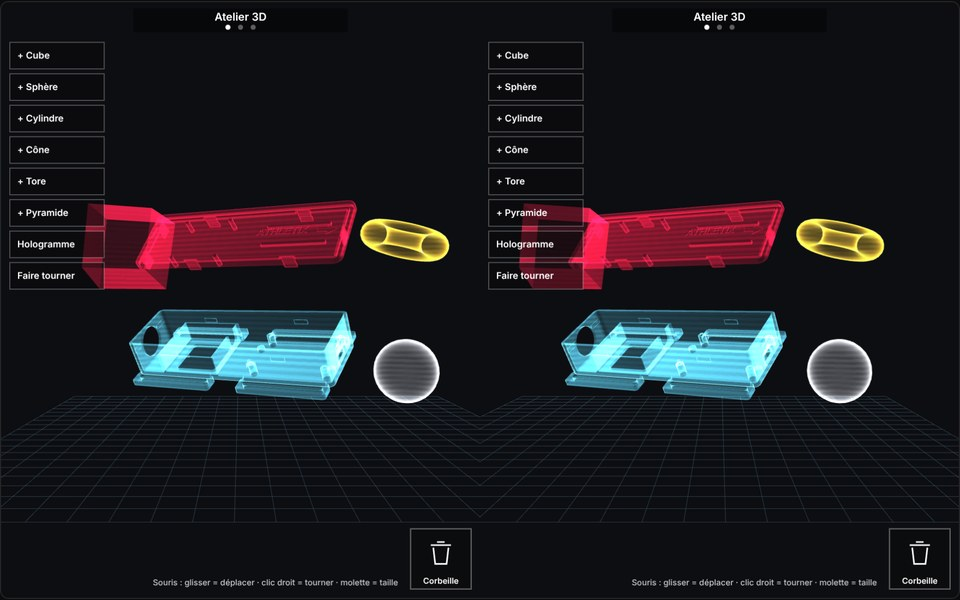
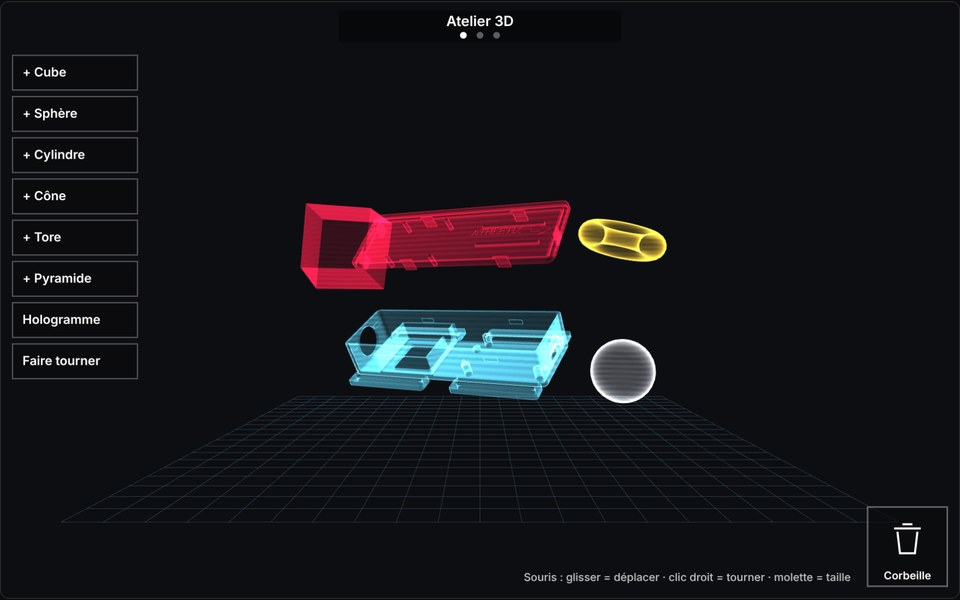
Une seule page active à la fois, menu des pages à deux mains ouvertes, usage principal sur ordinateur (casque en option)

diff --git a/demo/app.js b/demo/app.js
@@ -1,6 +1,7 @@
 // =====================================================================
 //  Vision IA — atelier 3D piloté par les mains
-//  Pages : Atelier 3D · Langue des signes · Visage (balayage de la main ouverte)
+//  Pages : Atelier 3D · Langue des signes · Visage. Une seule à la fois : les gestes de l'une
+//  n'agissent pas sur l'autre. Changer de page : les deux mains ouvertes 1 s ouvrent le menu.
 //  Mode casque : vue stéréo côte à côte, caméra arrière, gyroscope du téléphone.
 //  Modules écrits à la main : m3d (calcul), formes (STL/OBJ, formes), rendu (WebGL),
 //  gestes, atelier, signes, humeur. MediaPipe Tasks Vision (Apache 2.0) dans lib/.
@@ -9,7 +10,7 @@ import { FilesetResolver, HandLandmarker, FaceLandmarker } from './lib/vision_bu
 import { creerRendu } from './rendu.js';
 import { creerAtelier, COULEURS } from './atelier.js';
 import { FORMES, lireFichier, normaliser, zVersY, ecrireSTL } from './formes.js';
-import { lireMain, Balayage, Seuil, PINCE_ON, PINCE_OFF } from './gestes.js';
+import { lireMain, Maintien, Seuil, PINCE_ON, PINCE_OFF } from './gestes.js';
 import { q4, v3 } from './m3d.js';
 import { creerModeSignes } from './modesignes.js';
 import { creerModeVisage } from './modevisage.js';
@@ -17,7 +18,7 @@ import { creerModeVisage } from './modevisage.js';
 const T = {
   fr: {
     back: '← Retour au portfolio', eyebrow: 'Démo interactive · vision par ordinateur · 3D', title: 'Atelier 3D piloté par les mains',
-    intro: "Importez une pièce (STL, OBJ) ou faites apparaître une forme, puis saisissez-la, déplacez-la et faites-la tourner avec les mains, comme un objet réel. Un balayage de la main ouverte change de page : lecture de l'alphabet des signes, expressions du visage. Avec un casque où l'on glisse son téléphone, l'écran se coupe en deux et les pièces flottent devant vous.",
+    intro: "Devant la webcam de l'ordinateur, importez une pièce (STL, OBJ) ou faites apparaître une forme, puis saisissez-la, déplacez-la et faites-la tourner avec les mains, comme un objet réel. Les deux mains ouvertes ouvrent le menu des pages : lecture de l'alphabet des signes, expressions du visage. Une seule page agit à la fois. Un mode casque pour téléphone existe aussi en option.",
     pAtelier: 'Atelier 3D', pSignes: 'Langue des signes', pVisage: 'Visage',
     start: 'Activer la caméra', startRear: 'Caméra arrière (téléphone)', mouseTry: 'Essayer sans caméra (souris ou doigt)', restart: 'Relancer la caméra',
     statusIdle: "La caméra ne s'allume qu'après ce clic. Les images restent dans votre navigateur.",
@@ -31,27 +32,27 @@ const T = {
     g3: 'Deux mains qui pincent la même pièce', g3d: 'Écarter pour agrandir, rapprocher pour réduire, tourner les mains pour la faire pivoter.',
     g4: 'Lâcher sur la corbeille', g4d: "Supprime la pièce (en bas à droite de l'image).",
     g5: 'Pincer sur une forme de la colonne', g5d: "Fait apparaître la forme (cube, sphère…), sans toucher l'écran.",
-    g6: 'Balayer avec la main ouverte', g6d: 'Page suivante ou précédente.',
+    g6: 'Les deux mains ouvertes pendant 1 s', g6d: "Ouvre le menu des pages ; pincer la page voulue. Une seule page agit à la fois : en langue des signes, les gestes ne déplacent pas les pièces, et dans l'atelier aucune lettre n'est lue.",
     g7: 'À la souris', g7d: "Glisser une pièce : la déplacer · clic droit ou Maj + glisser : la tourner · molette : taille · fichier glissé sur l'image : importé.",
-    hsTitle: 'Mode casque', ipd: 'Écart des yeux',
+    hsTitle: 'Mode casque (option)', ipd: 'Écart des yeux',
     lim1: "Moteur 3D WebGL écrit à la main (projection, éclairage, profondeur, vue stéréo) et lecture STL / OBJ maison. La profondeur d'une pièce suit la taille apparente de la main. En mode casque, le gyroscope du téléphone garde les pièces à leur place quand on tourne la tête.",
-    s1: 'Montrer une lettre à la caméra', s1d: "Pour une personne qui ne parle pas : la lettre s'affiche, tenue 0,9 s elle s'ajoute au message, qui peut être lu à voix haute. Avec la caméra arrière ou le casque, on lit les signes de la personne en face.",
+    s1: 'Montrer une lettre à la caméra', s1d: "Pour une personne qui ne parle pas : la webcam lit vos signes, la lettre tenue 0,9 s s'ajoute au message, qui peut être lu à voix haute. Sur cette page, les gestes ne touchent pas aux pièces de l'atelier.",
     learnTitle: 'Apprendre mes signes', learnBtn: 'Enregistrer 25 images', forget: 'Oublier mes exemples', alphaTitle: 'Lettres reconnues',
     lim4: "J et Z se font avec un mouvement : elles ne sont pas reconnues. Les lettres proches (A, S, E, M, N, T) peuvent se confondre : enregistrer ses propres exemples corrige la plupart des erreurs.",
     msgTitle: 'Message', space: 'Espace', backspace: 'Effacer une lettre', clearMsg: 'Tout effacer', speak: 'Lire à voix haute',
     letterSeen: 'LETTRE', confidence: 'confiance', recording: 'Enregistrement', myExamples: 'Mes exemples', none: 'aucun', needCam: 'Activez la caméra pour enregistrer vos exemples.',
-    v1: 'Expression du visage filmé', v1d: 'Sur un ordinateur : votre propre visage. Avec la caméra arrière ou le casque : le visage de la personne en face de vous.',
+    v1: 'Expression du visage filmé', v1d: "La webcam filme votre visage et affiche son expression. (En option, avec la caméra arrière d'un téléphone, ce serait le visage de la personne en face.)",
     moodTitle: 'Humeur', cuesTitle: 'Indices du visage', calib: 'Calibrer le visage au repos (2 s)', uncalib: 'Oublier la calibration',
     calibrating: 'Gardez un visage neutre…', noFace: 'Aucun visage détecté', moodLabel: 'HUMEUR',
     cue_sourire: 'Sourire', cue_moue: 'Coins de bouche bas', cue_bouche: 'Bouche ouverte', cue_sourcilsLeves: 'Sourcils levés', cue_sourcilsFronces: 'Sourcils froncés', cue_yeuxOuverts: 'Yeux écarquillés',
     lim5: "Reconnaissance d'expressions, pas d'identification : le modèle ne sait pas qui est filmé. L'humeur est déduite par des règles sur 52 coefficients d'expression. Une expression n'est pas une émotion : c'est une démonstration, pas un diagnostic.",
     privacy: 'Les images de la caméra et les fichiers importés restent dans votre navigateur. Rien n\'est enregistré ni envoyé.',
     trash: 'Corbeille', showHands: 'Montrez vos mains à la caméra', held: 'tenue', imported: 'Importées :', importErr: 'Fichier non lu :', tooBig: 'fichier trop gros (> 80 Mo)',
-    triangles: 'triangles', swipeHint: 'main ouverte : balayer pour changer de page', mousePage: 'Souris : glisser = déplacer · clic droit = tourner · molette = taille',
+    triangles: 'triangles', swipeHint: 'les deux mains ouvertes 1 s : changer de page', menuTitle: 'Choisir la page', menuHint: 'Pincer la page voulue · les deux mains ouvertes 1 s pour fermer', mousePage: 'Souris : glisser = déplacer · clic droit = tourner · molette = taille',
   },
   en: {
     back: '← Back to portfolio', eyebrow: 'Interactive demo · computer vision · 3D', title: 'A 3D workshop driven by your hands',
-    intro: 'Import a part (STL, OBJ) or spawn a shape, then grab it, move it and turn it with your hands, like a real object. A swipe of the open hand changes page: sign alphabet reading, facial expressions. With a headset you slide your phone into, the screen splits in two and the parts float in front of you.',
+    intro: 'In front of the computer webcam, import a part (STL, OBJ) or spawn a shape, then grab it, move it and turn it with your hands, like a real object. Both hands open bring up the page menu: sign alphabet reading, facial expressions. Only one page acts at a time. An optional phone-headset mode also exists.',
     pAtelier: '3D workshop', pSignes: 'Sign language', pVisage: 'Face',
     start: 'Turn on the camera', startRear: 'Rear camera (phone)', mouseTry: 'Try it without a camera (mouse or finger)', restart: 'Restart the camera',
     statusIdle: 'The camera only turns on after this click. Images stay in your browser.',
@@ -65,23 +66,23 @@ const T = {
     g3: 'Both hands pinching the same part', g3d: 'Spread to enlarge, bring together to shrink, turn the hands to rotate it.',
     g4: 'Release over the bin', g4d: 'Deletes the part (bottom right of the image).',
     g5: 'Pinch on a shape in the column', g5d: 'Spawns the shape (cube, sphere…) without touching the screen.',
-    g6: 'Swipe with the open hand', g6d: 'Next or previous page.',
+    g6: 'Both hands open for 1 s', g6d: 'Opens the page menu; pinch the page you want. Only one page acts at a time: in sign language, gestures do not move parts, and in the workshop no letter is read.',
     g7: 'With the mouse', g7d: 'Drag a part: move it · right click or Shift + drag: turn it · wheel: size · file dropped on the image: imported.',
-    hsTitle: 'Headset mode', ipd: 'Eye separation',
+    hsTitle: 'Headset mode (option)', ipd: 'Eye separation',
     lim1: "Hand-written WebGL 3D engine (projection, lighting, depth, stereo view) and home-made STL / OBJ reader. A part's depth follows the apparent size of the hand. In headset mode, the phone's gyroscope keeps the parts in place when you turn your head.",
-    s1: 'Show a letter to the camera', s1d: 'For someone who cannot speak: the letter is shown, held for 0.9 s it is added to the message, which can be read aloud. With the rear camera or the headset, you read the signs of the person facing you.',
+    s1: 'Show a letter to the camera', s1d: 'For someone who cannot speak: the webcam reads your signs, a letter held for 0.9 s is added to the message, which can be read aloud. On this page, gestures do not touch the workshop parts.',
     learnTitle: 'Teach my signs', learnBtn: 'Record 25 frames', forget: 'Forget my examples', alphaTitle: 'Recognised letters',
     lim4: 'J and Z need a movement: they are not recognised. Close letters (A, S, E, M, N, T) can be confused: recording your own examples fixes most errors.',
     msgTitle: 'Message', space: 'Space', backspace: 'Delete a letter', clearMsg: 'Clear all', speak: 'Read aloud',
     letterSeen: 'LETTER', confidence: 'confidence', recording: 'Recording', myExamples: 'My examples', none: 'none', needCam: 'Turn on the camera to record your examples.',
-    v1: 'Expression of the filmed face', v1d: 'On a computer: your own face. With the rear camera or the headset: the face of the person in front of you.',
+    v1: 'Expression of the filmed face', v1d: "The webcam films your face and shows its expression. (Optionally, with a phone's rear camera, it would be the face of the person in front of you.)",
     moodTitle: 'Mood', cuesTitle: 'Face cues', calib: 'Calibrate the resting face (2 s)', uncalib: 'Forget the calibration',
     calibrating: 'Keep a neutral face…', noFace: 'No face detected', moodLabel: 'MOOD',
     cue_sourire: 'Smile', cue_moue: 'Mouth corners down', cue_bouche: 'Mouth open', cue_sourcilsLeves: 'Brows raised', cue_sourcilsFronces: 'Brows lowered', cue_yeuxOuverts: 'Eyes wide',
     lim5: 'Expression recognition, not identification: the model does not know who is filmed. The mood is inferred by rules on 52 expression coefficients. An expression is not an emotion: this is a demo, not a diagnosis.',
     privacy: 'Camera images and imported files stay in your browser. Nothing is recorded or sent.',
     trash: 'Bin', showHands: 'Show your hands to the camera', held: 'held', imported: 'Imported:', importErr: 'File not read:', tooBig: 'file too large (> 80 MB)',
-    triangles: 'triangles', swipeHint: 'open hand: swipe to change page', mousePage: 'Mouse: drag = move · right click = turn · wheel = size',
+    triangles: 'triangles', swipeHint: 'both hands open for 1 s: change page', menuTitle: 'Choose the page', menuHint: 'Pinch the page you want · both hands open for 1 s to close', mousePage: 'Mouse: drag = move · right click = turn · wheel = size',
   },
 };
 const NOMS_FORMES = { cube: 'fCube', sphere: 'fSphere', cylindre: 'fCyl', cone: 'fCone', tore: 'fTore', pyramide: 'fPyr' };
@@ -97,11 +98,13 @@ const t = (k) => T[lang][k] ?? k;
 
 let page = 'atelier', running = false, sourisSeule = false, miroir = true, stream = null;
 let stereo = 0, ipd = 0.064, files = null, mainsLm = null, visageLm = null, chargeVisage = null;
-let derniereImage = -1, resMains = null, resVisage = null, fps = 0, tPrec = 0, majBarresT = 0, holoParDefaut = false;
+let imagesVisage = 0, derniereImage = -1, resMains = null, resVisage = null, fps = 0, tPrec = 0, majBarresT = 0, holoParDefaut = false;
 let rendu = null;
 try { rendu = creerRendu(cv3d); } catch (e) { $('status').textContent = 'WebGL indisponible : ' + e.message; }
 const atelier = creerAtelier();
-const balayage = new Balayage();
+const ouvrirMenu = new Maintien(1000);
+let menu = null;                  // { depuis } quand le menu des pages est ouvert
+const pincePrec = {};
 const bibliotheque = [];          // pièces importées (pour les remettre dans la scène)
 let message = '', vue = { l: 960, h: 720, rec: [0, 0, 1, 1] };
 
@@ -271,6 +274,11 @@ function boutonsHud() {
   const ids = ['cube', 'sphere', 'cylindre', 'cone', 'tore', 'pyramide', 'holo', 'toupie'];
   return ids.map((id, i) => ({ id, r: [x, Math.round(64 * u) + i * (bh + g), x + bw, Math.round(64 * u) + i * (bh + g) + bh] }));
 }
+const dansR = (p, r) => p[0] >= r[0] && p[0] <= r[2] && p[1] >= r[1] && p[1] <= r[3];
+function boutonsMenu() {
+  const u = echelleHud(), bw = Math.round(240 * u), bh = Math.round(120 * u), g = Math.round(24 * u), x0 = vue.l / 2 - (3 * bw + 2 * g) / 2, y0 = vue.h / 2 - bh / 2;
+  return PAGES.map((id, i) => ({ id, r: [x0 + i * (bw + g), y0, x0 + i * (bw + g) + bw, y0 + bh] }));
+}
 function corbeille() { const u = echelleHud(), s = Math.round(96 * u); return [vue.l - s - 14 * u, vue.h - s - 14 * u, vue.l - 14 * u, vue.h - 14 * u]; }
 
 function dessinerHud(lues, now) {
@@ -311,18 +319,32 @@ function dessinerHud(lues, now) {
     }
   }
   // mains : squelette + pointeur
-  if (resMains && resMains.landmarks && page !== 'visage') resMains.landmarks.forEach((lm) => {
+  if (resMains && resMains.landmarks && (page !== 'visage' || menu)) resMains.landmarks.forEach((lm) => {
     ctx.strokeStyle = 'rgba(255,255,255,.55)'; ctx.lineWidth = 2 * u;
     CONNEXIONS.forEach(([a, b]) => { ctx.beginPath(); ctx.moveTo(...px(lm[a])); ctx.lineTo(...px(lm[b])); ctx.stroke(); });
     ctx.fillStyle = 'rgba(56,217,245,.9)'; lm.forEach((p) => { const [x, y] = px(p); ctx.beginPath(); ctx.arc(x, y, 3 * u, 0, 7); ctx.fill(); });
   });
-  if (page === 'atelier') for (const m of lues) {
+  if (page === 'atelier' || menu) for (const m of lues) {
     ctx.strokeStyle = m.tient ? '#c8102e' : '#fff'; ctx.lineWidth = 2.5 * u;
     ctx.beginPath(); ctx.arc(m.pointeur[0], m.pointeur[1], (m.pince ? 7 : 12) * u, 0, 7); ctx.stroke();
     if (m.pince) { ctx.fillStyle = m.tient ? '#c8102e' : '#fff'; ctx.fill(); }
   }
-  if (page === 'signes') m4s.dessiner(ctx, now);
-  if (page === 'visage') m5.dessiner(ctx, now);
+  if (page === 'signes' && !menu) m4s.dessiner(ctx, now);
+  if (page === 'visage' && !menu) m5.dessiner(ctx, now);
+  // progression « deux mains ouvertes » puis menu des pages
+  const prog = ouvrirMenu.progression(now);
+  if (prog > 0) { ctx.strokeStyle = '#fff'; ctx.lineWidth = 6 * u; ctx.beginPath(); ctx.arc(L / 2, H / 2, 46 * u, -Math.PI / 2, -Math.PI / 2 + prog * 2 * Math.PI); ctx.stroke(); }
+  if (menu) {
+    ctx.fillStyle = 'rgba(0,0,0,.6)'; ctx.fillRect(0, 0, L, H);
+    ctx.fillStyle = '#fff'; ctx.textAlign = 'center'; ctx.font = `600 ${Math.round(18 * u)}px Inter, sans-serif`; ctx.fillText(t('menuTitle'), L / 2, H / 2 - 100 * u);
+    for (const b of boutonsMenu()) {
+      const survol = lues.some((m) => dansR(m.pointeur, b.r)), ici = b.id === page;
+      ctx.fillStyle = survol ? 'rgba(200,16,46,.9)' : ici ? 'rgba(255,255,255,.22)' : 'rgba(20,20,22,.9)'; ctx.fillRect(b.r[0], b.r[1], b.r[2] - b.r[0], b.r[3] - b.r[1]);
+      ctx.strokeStyle = '#fff'; ctx.lineWidth = 2 * u; ctx.strokeRect(b.r[0], b.r[1], b.r[2] - b.r[0], b.r[3] - b.r[1]);
+      ctx.fillStyle = '#fff'; ctx.font = `700 ${Math.round(20 * u)}px Inter, sans-serif`; ctx.fillText(t({ atelier: 'pAtelier', signes: 'pSignes', visage: 'pVisage' }[b.id]), (b.r[0] + b.r[2]) / 2, (b.r[1] + b.r[3]) / 2);
+    }
+    ctx.font = `500 ${Math.round(14 * u)}px Inter, sans-serif`; ctx.fillStyle = 'rgba(255,255,255,.8)'; ctx.fillText(t('menuHint'), L / 2, H / 2 + 100 * u);
+  }
   // aide en bas
   if (running && page === 'atelier' && !(resMains && resMains.landmarks && resMains.landmarks.length)) {
     ctx.fillStyle = 'rgba(0,0,0,.55)'; ctx.font = `500 ${Math.round(15 * u)}px Inter, sans-serif`; const s = t('showHands') + ' · ' + t('swipeHint'), w = ctx.measureText(s).width + 24 * u;
@@ -354,24 +376,31 @@ function boucle(now) {
   // détection
   if (running && video.currentTime !== derniereImage) {
     derniereImage = video.currentTime;
-    if (page === 'visage') { if (visageLm) { resVisage = visageLm.detectForVideo(video, now); m5.traiter(resVisage, now); } resMains = null; }
-    else if (mainsLm) { resMains = mainsLm.detectForVideo(video, now); if (page === 'signes') m4s.traiter(resMains, now); }
+    if (page === 'visage') { if (visageLm) { resVisage = visageLm.detectForVideo(video, now); m5.traiter(resVisage, now); } if (mainsLm && (++imagesVisage % 3 === 0)) resMains = mainsLm.detectForVideo(video, now); }
+    else if (mainsLm) { resMains = mainsLm.detectForVideo(video, now); if (page === 'signes' && !menu && !ouvrirMenu.depuis) m4s.traiter(resMains, now); }
   }
   // mains -> gestes
   const lues = [];
-  if (running && resMains && resMains.landmarks && page !== 'visage') resMains.landmarks.forEach((lm, i) => {
+  if (running && resMains && resMains.landmarks) resMains.landmarks.forEach((lm, i) => {
     const W = resMains.worldLandmarks && resMains.worldLandmarks[i]; if (!W) return;
     const m = lireMain(lm, W, { miroir, versVue: px }); m.id = 'm' + i;
     const s = pinces[m.id] || (pinces[m.id] = new Seuil(PINCE_ON, PINCE_OFF)); m.pince = s.maj(m.dPince);
     lues.push(m);
   });
   if (page === 'atelier' && souris.dedans && (sourisSeule || running)) { const appui = souris.gauche || souris.droit || souris.min > 0; if (souris.min > 0) souris.min--; lues.push({ id: 'souris', pointeur: [souris.x, souris.y], dPince: appui ? 0.01 : 0.1, pince: appui, taille: 100, q: souris.q, ouverte: false }); }
-  // balayage de la main ouverte : page suivante / précédente
-  const ouverte = lues.find((m) => m.ouverte && !m.pince);
-  const sens = balayage.pousser(ouverte ? ouverte.centre[0] : 0, ouverte ? ouverte.centre[1] : 0, now, vue.l, !!ouverte && !atelier.tenu());
-  if (sens) { const i = PAGES.indexOf(page); setPage(PAGES[(i + (sens === 'gauche' ? 1 : PAGES.length - 1)) % PAGES.length]); }
-  // atelier
-  if (page === 'atelier') {
+  // menu des pages : les deux mains ouvertes pendant 1 s (aucune lettre de l'alphabet ne se fait à deux mains,
+  // et on ne tient pas de pièce mains ouvertes : pas de changement de page par accident)
+  const mainsCam = lues.filter((m) => m.id !== 'souris');
+  const deuxOuvertes = mainsCam.length >= 2 && mainsCam.filter((m) => m.ouverte && !m.pince).length >= 2 && !atelier.tenu();
+  if (ouvrirMenu.maj(deuxOuvertes, now)) menu = menu ? null : { depuis: now };
+  if (menu && now - menu.depuis > 8000) menu = null;
+  const clics = lues.filter((m) => m.pince && !pincePrec[m.id]);
+  for (const m of lues) pincePrec[m.id] = m.pince;
+  if (menu) {
+    for (const m of clics) { const b = boutonsMenu().find((x) => dansR(m.pointeur, x.r)); if (b) { setPage(b.id); menu = null; break; } }
+  }
+  // atelier (rien ne bouge pendant que le menu est ouvert)
+  if (page === 'atelier' && !menu) {
     const evts = atelier.mettreAJour(lues, vue.l, vue.h, now, { corbeille: corbeille(), boutons: boutonsHud() });
     for (const e of evts) if (e.type === 'bouton') actionHud(e.b.id);
     for (const m of lues) m.tient = !!(atelier.mains[m.id] && atelier.mains[m.id].saisie);
@@ -460,4 +489,4 @@ setLang(lang); setPage('atelier');
 dimensionner(); if (rendu) rendu.dessiner(atelier.cam, atelier.scene, {});
 
 // Point d'accès pour les tests (sans effet en usage normal)
-window.__visionDemo = { atelier, getState: () => ({ running, page, stereo, objets: atelier.scene.objets.length, fps, message: m4s.etat.message, humeur: m5.etat.h && m5.etat.h.humeur }), readyHands: () => !!mainsLm, readyFace: () => !!visageLm, setPage, importer, entrerCasque, quitterCasque, stereo: (v) => { stereo = v; } };
+window.__visionDemo = { atelier, getState: () => ({ running, page, stereo, objets: atelier.scene.objets.length, fps, message: m4s.etat.message, humeur: m5.etat.h && m5.etat.h.humeur }), readyHands: () => !!mainsLm, readyFace: () => !!visageLm, setPage, importer, entrerCasque, quitterCasque, stereo: (v) => { stereo = v; }, ouvrirMenu: () => { menu = { depuis: performance.now() }; } };

diff --git a/demo/index.html b/demo/index.html
@@ -116,7 +116,7 @@
 
     <p class="eyebrow" data-t="eyebrow">Démo interactive · vision par ordinateur · 3D</p>
     <h1 data-t="title">Atelier 3D piloté par les mains</h1>
-    <p class="intro" data-t="intro">Importez une pièce (STL, OBJ) ou faites apparaître une forme, puis saisissez-la, déplacez-la et faites-la tourner avec les mains, comme un objet réel. Un balayage de la main ouverte change de page : lecture de l'alphabet des signes, expressions du visage. Avec un casque où l'on glisse son téléphone, l'écran se coupe en deux et les pièces flottent devant vous.</p>
+    <p class="intro" data-t="intro">Devant la webcam de l'ordinateur, importez une pièce (STL, OBJ) ou faites apparaître une forme, puis saisissez-la, déplacez-la et faites-la tourner avec les mains, comme un objet réel. Les deux mains ouvertes ouvrent le menu des pages : lecture de l'alphabet des signes, expressions du visage. Une seule page agit à la fois. Un mode casque pour téléphone existe aussi en option.</p>
 
     <div class="layout">
       <section>
@@ -168,15 +168,13 @@
             <button type="button" class="small" id="back4" data-t="backspace">Effacer une lettre</button>
             <button type="button" class="small" id="clear4" data-t="clearMsg">Tout effacer</button>
             <button type="button" class="small" id="speak4" data-t="speak">Lire à voix haute</button>
-            <span class="sep"></span>
-            <button type="button" class="small" id="casque4" data-t="headset">Mode casque (téléphone)</button>
+            <button type="button" class="small" id="casque4" data-t="headset" hidden>Mode casque (téléphone)</button>
           </div>
         </div>
         <div class="bar" data-montre="visage" hidden>
           <button type="button" class="small" id="calib5" data-t="calib">Calibrer le visage au repos (2 s)</button>
           <button type="button" class="small" id="uncalib5" data-t="uncalib">Oublier la calibration</button>
-          <span class="sep"></span>
-          <button type="button" class="small" id="casque5" data-t="headset">Mode casque (téléphone)</button>
+          <button type="button" class="small" id="casque5" data-t="headset" hidden>Mode casque (téléphone)</button>
         </div>
       </section>
 
@@ -189,10 +187,10 @@
             <div><dt data-t="g3">Deux mains qui pincent la même pièce</dt><dd data-t="g3d">Écarter pour agrandir, rapprocher pour réduire, tourner les mains pour la faire pivoter.</dd></div>
             <div><dt data-t="g4">Lâcher sur la corbeille</dt><dd data-t="g4d">Supprime la pièce (en bas à droite de l'image).</dd></div>
             <div><dt data-t="g5">Pincer sur une forme de la colonne</dt><dd data-t="g5d">Fait apparaître la forme (cube, sphère…), sans toucher l'écran.</dd></div>
-            <div><dt data-t="g6">Balayer avec la main ouverte</dt><dd data-t="g6d">Page suivante ou précédente.</dd></div>
+            <div><dt data-t="g6">Les deux mains ouvertes pendant 1 s</dt><dd data-t="g6d">Ouvre le menu des pages ; pincer la page voulue. Une seule page agit à la fois : en langue des signes, les gestes ne déplacent pas les pièces, et dans l'atelier aucune lettre n'est lue.</dd></div>
             <div><dt data-t="g7">À la souris</dt><dd data-t="g7d">Glisser une pièce : la déplacer · clic droit ou Maj + glisser : la tourner · molette : taille · fichier glissé sur l'image : importé.</dd></div>
           </dl>
-          <h3 data-t="hsTitle">Mode casque</h3>
+          <h3 data-t="hsTitle">Mode casque (option)</h3>
           <div class="reglages">
             <label><span data-t="ipd">Écart des yeux</span><input type="range" id="ipd" min="0" max="0.1" step="0.002" value="0.064"><span id="ipdV">64 mm</span></label>
           </div>

diff --git a/demo/gestes.js b/demo/gestes.js
@@ -85,3 +85,15 @@ export function vitesseAngulaire(qa, qb, dt) {
   if (s < 1e-6 || dt <= 0) return { axe: [0, 1, 0], w: 0 };
   return { axe: [d[0] / s, d[1] / s, d[2] / s], w: ang / dt };
 }
+
+// Condition tenue pendant `duree` ms (ex. les deux mains ouvertes) : vrai une seule fois, puis il faut relâcher
+export class Maintien {
+  constructor(duree = 1000) { this.duree = duree; this.depuis = null; this.fait = false; }
+  maj(cond, t) {
+    if (!cond) { this.depuis = null; this.fait = false; return false; }
+    if (this.depuis === null) this.depuis = t;
+    if (!this.fait && t - this.depuis >= this.duree) { this.fait = true; return true; }
+    return false;
+  }
+  progression(t) { return this.depuis === null || this.fait ? 0 : Math.min((t - this.depuis) / this.duree, 1); }
+}

diff --git a/README.md b/README.md
@@ -4,14 +4,14 @@
 
 **▶ [Essayer l'application en ligne](https://valentin-auger-laboratoire.github.io/portfolio/demos/vision-main/)** — dans le navigateur, rien n'est envoyé · *[Try it online](https://valentin-auger-laboratoire.github.io/portfolio/demos/vision-main/)*
 
-![Atelier 3D en mode casque : pièces STL et formes en hologramme, vue stéréo pour un casque à téléphone](images/apercu.jpg)
+![Atelier 3D : pièces STL importées et formes affichées en hologramme](images/apercu.jpg)
 
 ---
 
 ## Français
 
 ### L'idée
-Manipuler des pièces 3D avec les mains, sans souris, comme des objets réels : devant la webcam d'un ordinateur, ou dans un **casque où l'on glisse son téléphone**. Dans le casque, l'écran se coupe en deux (une image par œil), la caméra arrière filme ce qu'il y a devant soi, on voit ses propres mains, et les pièces flottent dans la pièce.
+Manipuler des pièces 3D avec les mains, sans souris, comme des objets réels, **devant la webcam de son ordinateur** (elle filme l'utilisateur). En option, un mode casque pour téléphone coupe l'écran en deux.
 
 ### Atelier 3D
 - **Importer n'importe quelle pièce** STL (binaire ou texte) ou OBJ, par exemple un export de Fusion 360 ou SolidWorks (glisser le fichier sur l'image, ou bouton « Importer »). Les pièces de CAO en « Z vers le haut » sont remises droites ; les dimensions d'origine sont affichées.
@@ -24,11 +24,11 @@ Manipuler des pièces 3D avec les mains, sans souris, comme des objets réels : 
 - Aussi à la souris ou au doigt : glisser = déplacer, clic droit = tourner, molette = taille.
 
 ### Changer de page d'un geste
-Un **balayage de la main ouverte** passe à la page suivante ou précédente :
-- **Langue des signes** : l'alphabet **LSF ou ASL** est lu lettre par lettre (24 lettres ; J et Z demandent un mouvement), pour une personne qui ne parle pas. La lettre tenue 0,9 s s'ajoute au message, qui peut être lu à voix haute. On peut enregistrer ses propres exemples. Avec la caméra arrière ou le casque, on lit les signes de la personne en face.
-- **Visage** : maillage de 478 points et **expression** du visage filmé (content, surpris, triste, contrarié, neutre), déduite des 52 coefficients d'expression du modèle, avec calibration du visage au repos. Sur un ordinateur : son propre visage ; à travers le casque : celui des autres. C'est de la reconnaissance d'expressions, **pas d'identification**, et une expression n'est pas une émotion.
+**Une seule page agit à la fois** : en langue des signes, les gestes ne déplacent pas les pièces, et dans l'atelier aucune lettre n'est lue. Pour changer de page, on garde **les deux mains ouvertes pendant 1 s** : le menu des pages s'affiche dans l'image et on pince la page voulue (aucune lettre de l'alphabet ne se fait à deux mains, donc pas de changement par accident).
+- **Langue des signes** : l'alphabet **LSF ou ASL** est lu lettre par lettre (24 lettres ; J et Z demandent un mouvement), pour une personne qui ne parle pas : la webcam lit ses signes, la lettre tenue 0,9 s s'ajoute au message, qui peut être lu à voix haute. On peut enregistrer ses propres exemples.
+- **Visage** : maillage de 478 points et **expression** du visage filmé (content, surpris, triste, contrarié, neutre), déduite des 52 coefficients d'expression du modèle, avec calibration du visage au repos : la webcam filme le visage de l'utilisateur. C'est de la reconnaissance d'expressions, **pas d'identification**, et une expression n'est pas une émotion.
 
-### Mode casque
+### Mode casque (option)
 Écran coupé en deux, **vue stéréo** (écart des yeux réglable), caméra arrière, plein écran en paysage, et **gyroscope du téléphone** : les pièces restent à leur place quand on tourne la tête. Il fonctionne sur les trois pages.
 
 ### Ce qui est écrit à la main (`demo/`)
@@ -37,7 +37,7 @@ Un **balayage de la main ouverte** passe à la page suivante ou précédente :
 | `m3d.js` | vecteurs, quaternions, matrices, perspective, rayon depuis un pixel, intersections rayon / boîte et rayon / triangle |
 | `formes.js` | lecture STL / OBJ, normales, recentrage, formes de base, écriture STL |
 | `rendu.js` | moteur WebGL : fond caméra, éclairage, style hologramme, profondeur, vue stéréo |
-| `gestes.js` | pince avec hystérésis, main ouverte, poing, repère de la paume en 3D, balayage |
+| `gestes.js` | pince avec hystérésis, main ouverte, poing, repère de la paume en 3D, geste tenu (menu à deux mains) |
 | `atelier.js` | viser, saisir, déplacer, tourner, lancer, deux mains, corbeille |
 | `signes.js`, `modesignes.js` | alphabet des signes (repère de la main, 22 caractéristiques, modèles d'une main de synthèse, exemples personnels) |
 | `humeur.js`, `modevisage.js` | expression du visage à partir des coefficients du modèle |
@@ -49,7 +49,7 @@ La détection des mains et du visage vient de **MediaPipe Tasks Vision** (Google
 ```bash
 node demo/tests/test.js
 ```
-2 888 vérifications : formes (volume exact de chaque forme fermée, normales vers l'extérieur, STL écrit puis relu à l'identique, STL texte, OBJ, fichiers refusés), calcul 3D (quaternions, matrices, projection ↔ rayon), gestes (pince, main ouverte, poing, orientation de la main retrouvée à 10⁻⁶ rad, balayage), atelier (la pièce suit la main à l'écran, profondeur divisée par 2 quand la main paraît 2 fois plus grande, rotation transmise, lancer puis arrêt, deux mains, corbeille, boutons), signes et expressions.
+2 891 vérifications : formes (volume exact de chaque forme fermée, normales vers l'extérieur, STL écrit puis relu à l'identique, STL texte, OBJ, fichiers refusés), calcul 3D (quaternions, matrices, projection ↔ rayon), gestes (pince, main ouverte, poing, menu à deux mains ouvertes, orientation de la main retrouvée à 10⁻⁶ rad), atelier (la pièce suit la main à l'écran, profondeur divisée par 2 quand la main paraît 2 fois plus grande, rotation transmise, lancer puis arrêt, deux mains, corbeille, boutons), signes et expressions.
 
 Vérifié aussi dans Chromium avec une caméra simulée : pièce STL importée et manipulée, mains détectées sur une vidéo, mode casque, lettre V lue, sourire lu « content ». Les gestes devant une vraie caméra et le casque avec un vrai téléphone restent à essayer.
 
@@ -63,7 +63,7 @@ Lancer en local : `python -m http.server` dans `demo`, puis ouvrir `http://local
 ## English
 
 ### The idea
-Handle 3D parts with your hands, no mouse, like real objects: in front of a computer webcam, or inside a **headset you slide your phone into**. In the headset the screen splits in two (one image per eye), the rear camera films what is in front of you, you see your own hands, and the parts float in the room.
+Handle 3D parts with your hands, no mouse, like real objects, **in front of your computer webcam** (it films the user). An optional phone-headset mode splits the screen in two.
 
 ### 3D workshop
 - **Import any part**: STL (binary or text) or OBJ, e.g. a Fusion 360 or SolidWorks export (drop the file on the image or use "Import"). CAD parts with Z up are set upright; original dimensions are shown.
@@ -76,11 +76,11 @@ Handle 3D parts with your hands, no mouse, like real objects: in front of a comp
 - Also with the mouse or a finger: drag = move, right click = turn, wheel = size.
 
 ### Changing page with a gesture
-A **swipe of the open hand** goes to the next or previous page:
-- **Sign language**: the **LSF or ASL** alphabet is read letter by letter (24 letters; J and Z need a movement), for someone who cannot speak. A letter held for 0.9 s is added to the message, which can be read aloud. You can record your own examples. With the rear camera or the headset, you read the signs of the person facing you.
-- **Face**: 478-point mesh and the **expression** of the filmed face (happy, surprised, sad, annoyed, neutral), inferred from the model's 52 expression coefficients, with calibration of the resting face. On a computer: your own face; through the headset: other people's. This is expression recognition, **not identification**, and an expression is not an emotion.
+**Only one page acts at a time**: in sign language, gestures do not move parts, and in the workshop no letter is read. To change page, keep **both hands open for 1 s**: the page menu appears in the image and you pinch the page you want (no alphabet letter uses two hands, so no accidental change).
+- **Sign language**: the **LSF or ASL** alphabet is read letter by letter (24 letters; J and Z need a movement), for someone who cannot speak: the webcam reads their signs, a letter held for 0.9 s is added to the message, which can be read aloud. You can record your own examples.
+- **Face**: 478-point mesh and the **expression** of the filmed face (happy, surprised, sad, annoyed, neutral), inferred from the model's 52 expression coefficients, with calibration of the resting face: the webcam films the user's face. This is expression recognition, **not identification**, and an expression is not an emotion.
 
-### Headset mode
+### Headset mode (option)
 Split screen, **stereo view** (adjustable eye separation), rear camera, landscape full screen, and the **phone's gyroscope**: parts stay in place when you turn your head. Works on all three pages.
 
 ### Hand-written code (`demo/`)
@@ -90,7 +90,7 @@ Split screen, **stereo view** (adjustable eye separation), rear camera, landscap
 ```bash
 node demo/tests/test.js
 ```
-2,888 checks: shapes (exact volumes, outward normals, STL write/read round trip, text STL, OBJ, rejected files), 3D maths, gestures (pinch, open hand, fist, hand orientation recovered to 10⁻⁶ rad, swipe), workshop (the part follows the hand, depth halves when the hand looks twice as big, rotation transfer, throw then stop, two hands, bin, buttons), signs and expressions. Also checked in Chromium with a simulated camera; real-camera gestures and a real phone headset remain to be tried.
+2,891 checks: shapes (exact volumes, outward normals, STL write/read round trip, text STL, OBJ, rejected files), 3D maths, gestures (pinch, open hand, fist, two-open-hands menu, hand orientation recovered to 10⁻⁶ rad), workshop (the part follows the hand, depth halves when the hand looks twice as big, rotation transfer, throw then stop, two hands, bin, buttons), signs and expressions. Also checked in Chromium with a simulated camera; real-camera gestures and a real phone headset remain to be tried.
 
 ### First prototype (Python, March 2026)
 `app.py` (hand tracking and a QUIT button pressed with a finger) and `construction_gestes.py` (cubes placed by pinching) are the first experiments, with OpenCV and MediaPipe 0.10.21.
